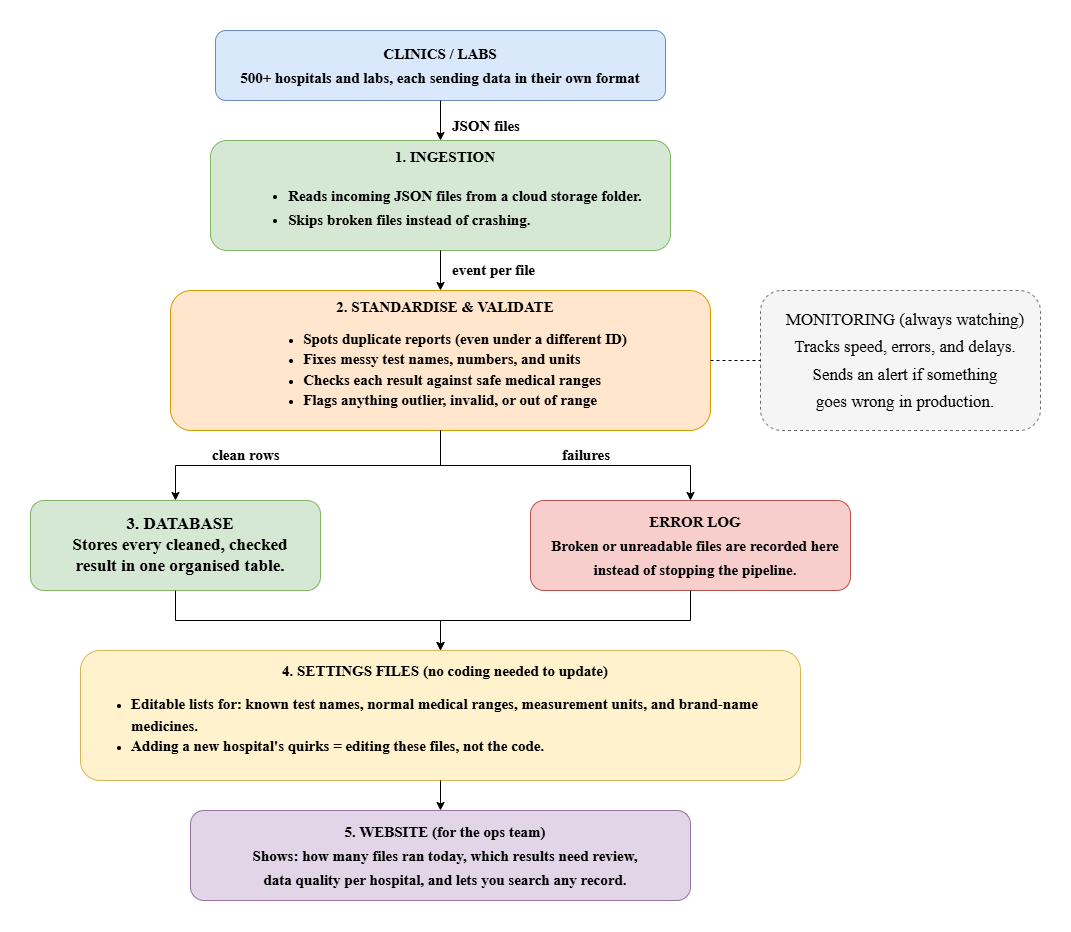
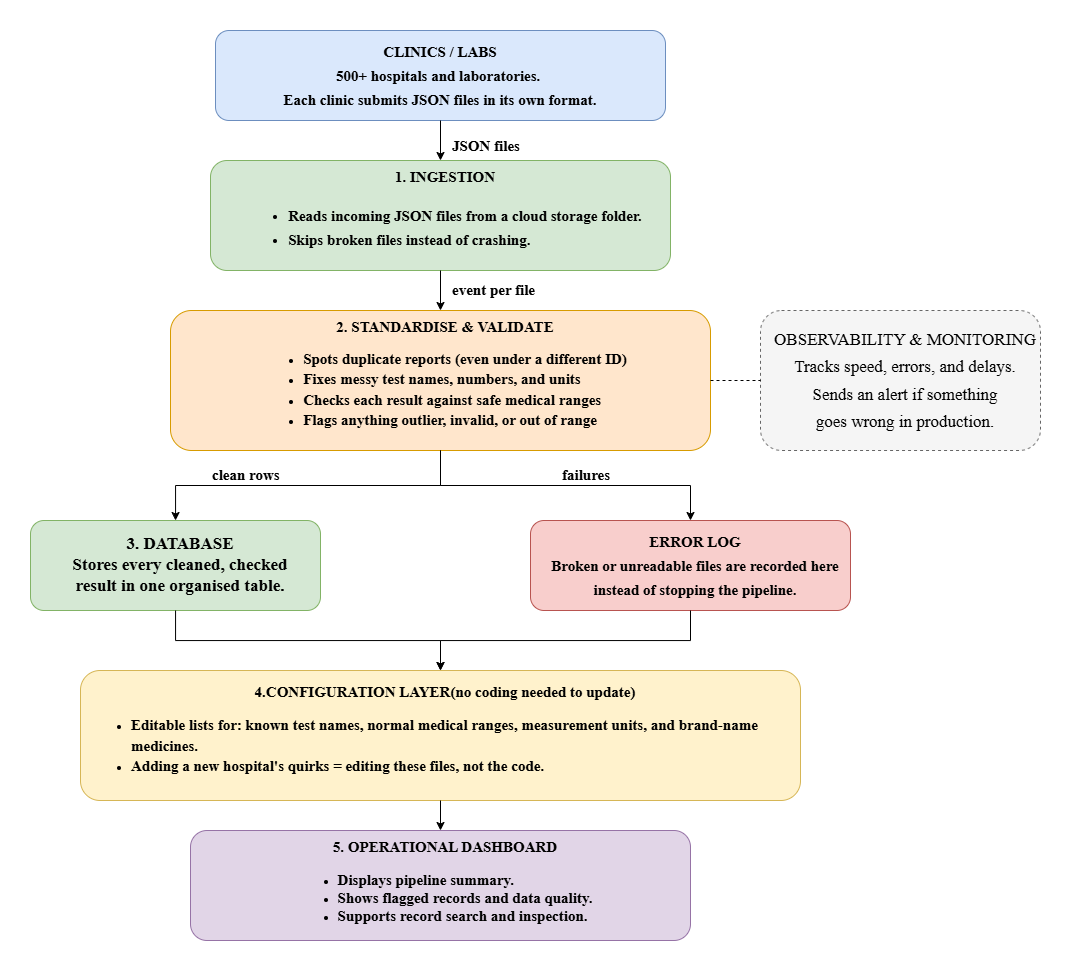
Update README and architecture diagram

Changed region(s): [[0.0308, 0.529, 0.8011, 0.9957], [0.1541, 0.0311, 0.6779, 0.4979], [0.7087, 0.3112, 0.9552, 0.4667]]

diff --git a/README.md b/README.md
@@ -180,8 +180,6 @@ python -m pytest tests/ -v
 
 ---
 
-## Diagram and Slides
+## Architecture
 
-The architecture diagram is in `docs/veritas_architecture.drawio` (open it
-at app.diagrams.net). An exported version of it, along with technical
-notes and references, is in the accompanying Google Slides deck.
+The solution architecture diagram is available in the `docs` folder as `architecture_diagram.png`. It illustrates the end-to-end pipeline architecture, including the ingestion, standardization, validation, storage, configuration, error handling, monitoring, and operational dashboard layers.